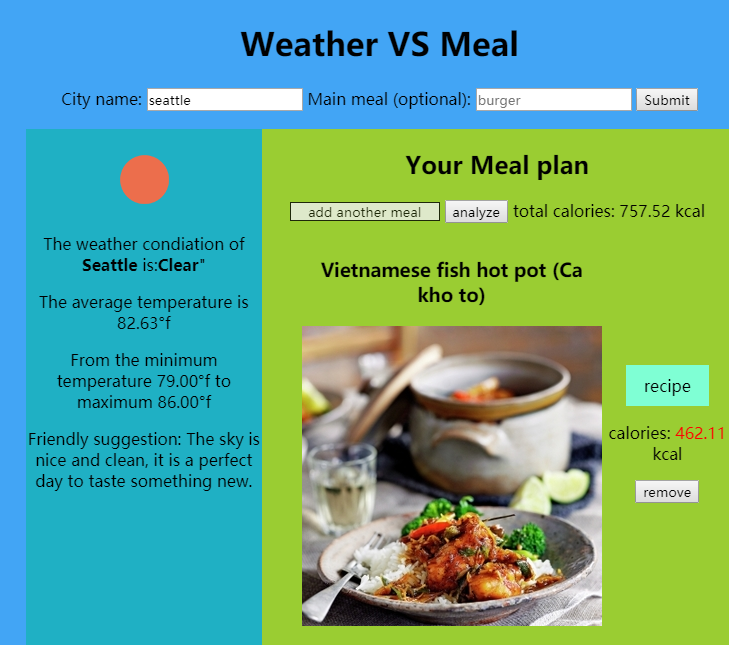
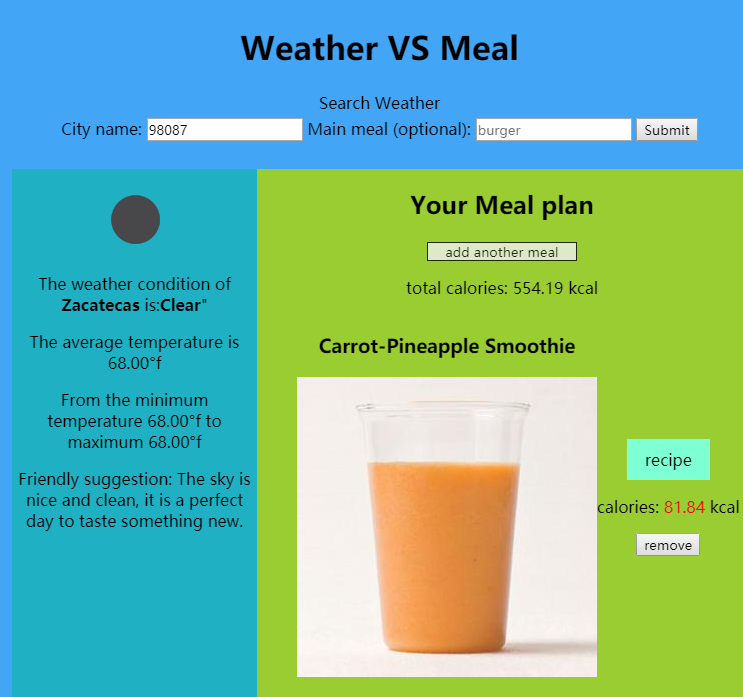
aria-live add

diff --git a/script.js b/script.js
@@ -33,7 +33,7 @@ function makeMeal(responseJson) {
   const cal = (responseJson.recipe.calories / responseJson.recipe.yield).toFixed(2);
   WeatherVSMeal.totalCal += parseFloat(cal);
   WeatherVSMeal.foodCal.push(cal);
-  
+  updateCal();
   return `<li class="item">
     <div class="food-info">
     <h3>${responseJson.recipe.label}</h3>
@@ -121,11 +121,12 @@ function seekFood(target, cal) {
     .catch(err => {
       $('#js-error-message-food').text(`Something went wrong: ${err.message}`);
     });
+  
 }
 
 // locate the weather condition category in data.js
 function findId(id) {
-  console.log("the id is " + id);
+  
   for (let i = 0; i < MealPlan.length; i++) {
     if (MealPlan[i].id === id) {
       return MealPlan[i];
@@ -152,7 +153,7 @@ function getPlan(mainMeal, city) {
     const cals = mealPlan.calories;
     const wsug = mealPlan.description;
     $('#result-weather').append(`<p>Friendly suggestion: ${wsug}`);
-    console.log(cals);
+    
     $("#meal-list").empty();
     if (mainMeal == "") {
       seekFood(SubMeal[WeatherVSMeal.foodSet][makeUp(SubMeal[WeatherVSMeal.foodSet].length)], cals[0]);
@@ -160,8 +161,8 @@ function getPlan(mainMeal, city) {
       seekFood(mainMeal, cals[0]);
     }
      seekFood(sub_meal, cals[1]);
-    // seekFood(fruit, cals[2]);
-    // seekFood(veg, cals[3]);
+     seekFood(fruit, cals[2]);
+     seekFood(veg, cals[3]);
     // seekFood(nut, cals[4]);
   }, 800);
 
@@ -247,8 +248,9 @@ function watchAddMeal() {
 // remove meal from the meal list, and return to original form if the meal list is empty
 function handleRemove() {
   $('#meal-list').on('click', '.js-remove', function (event) {
-    totalCal -= parseFloat($(this).closest('li').find('.calor').text());
     
+    WeatherVSMeal.totalCal -= parseFloat($(this).closest('li').find('.calor').text());
+    updateCal();
     $(this).closest('li').remove();
     if($('#meal-list li').length == 0){
       $('.display').hide();
@@ -259,11 +261,7 @@ function handleRemove() {
     
   });
 }
-function handleAnalyze(){
-  $('.meal-plan').on('click','#analyze', function (event){
-    updateCal();
-  })
-}
+
 
 function updateCal() {
   $("#total-cal").text(`total calories: ${WeatherVSMeal.totalCal.toFixed(2)} kcal`);
@@ -282,12 +280,11 @@ function watchForm() {
     $('.display').show();
     const mainMeal = $('#js-main-meal').val();
     const searchCity = $('#js-city').val();
-    console.log("main meal: " + mainMeal);
+    
     getPlan(mainMeal, searchCity);
-    getWeather = false;
+    WeatherVSMeal.getWeather = false;
   });
   handleRemove();
-  handleAnalyze();
   watchAddMeal();
 }
 

diff --git a/index.html b/index.html
@@ -9,9 +9,9 @@
   </head>
   <body>
     <main>
-      <h1>Weather VS Meal</h1>
+      <h1 role="title">Weather VS Meal</h1>
       
-      <section class="weather">
+      <section class="weather" role="weather search">
         <h2 id="intro">Can't decide what to eat for dinner?</h2>
         <form class="form-container" id="search-meal" action="/some-server-endpoint">
           <fieldset>
@@ -27,18 +27,18 @@
         </form>
       </section>
       
-      <p id="js-error-message-weather" class="error-message"></p>
-      <p id="js-error-message-food" class="error-message"></p>
-      <div class="display">
+      <p id="js-error-message-weather" class="error-message" role="error message" aria-live="polite"></p>
+      <p id="js-error-message-food" class="error-message" role="error message" aria-live="polite"></p>
+      <div class="display" role="content" >
         <section class="results hidden display-weather">
-          <div id="result-weather"></div> 
+          <div id="result-weather" aria-live="polite"></div> 
           
         </section>
         <section class="results hidden meal-plan">
           <h2>Your Meal plan</h2>
           <button class="open-button" onclick="openForm()">add another meal</button>
-          <button id="analyze">analyze</button>
-          <p id="total-cal"></p>
+          
+          <p id="total-cal" aria-live="polite"></p>
           
           <div class="form-popup" id="add-meal-container">
             <form action="/some-server-endpoint" class="form-container" id="submit-add-meal">
@@ -60,7 +60,7 @@
             </form>
           </div>
             
-          <ul id="meal-list">
+          <ul id="meal-list" role="meal content" aria-live="polite">
           </ul>
           
           
